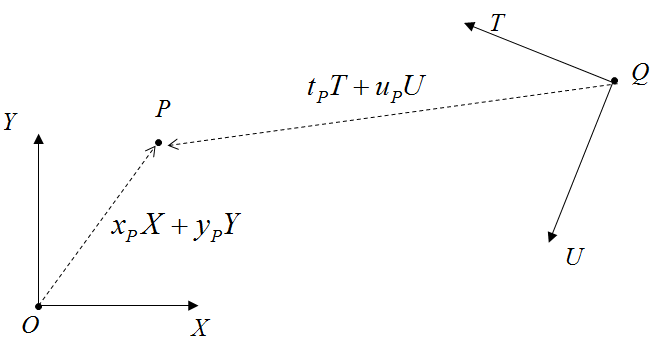
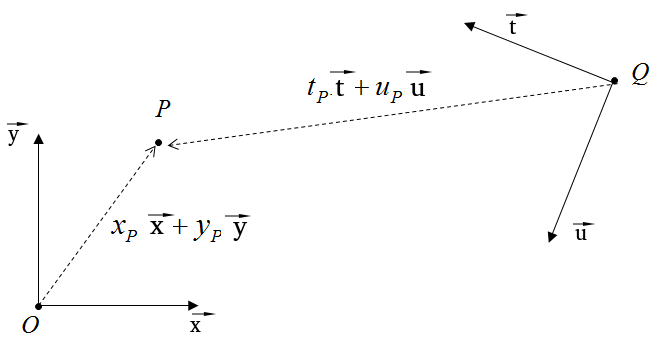
Uses the proposed math notation on baseorientation class

diff --git a/classes/baseorientation/README.md b/classes/baseorientation/README.md
@@ -34,7 +34,8 @@
 ---
 ## Computando a orientação
 
-- A orientação de <span class="math">n+1</span> pontos em um espaço n-dimensional é dado pelo **sinal
+- A orientação de <span class="math">n+1</span> pontos em um espaço
+  <span class="math">n</span>-dimensional é dado pelo **sinal
   do determinante da matriz** cujas colunas são as coordenadas homogêneas
   dos pontos **com o 1 vindo primeiro**
 
@@ -44,8 +45,6 @@
   <span class="math">
     Or_3(P_1,P_2,P_3,P_4)=sign\left(\begin{vmatrix}1&1&1&1\\\x_1&x_2&x_3&x_4\\\y_1&y_2&y_3&y_4\\\z_1&z_2&z_3&z_4\end{vmatrix}\right)
   </span>
-- O OpenGL faz isto internamente para descobrir
-  qual a orientação dos polígonos
 
 ---
 # Produto Vetorial
@@ -64,12 +63,12 @@
 ## Produto Vetorial (cont.)
 
 - Propriedades (assume-se <span class="math">\vec{u}</span>, <span class="math">\vec{v}</span> linearmente independentes):
-  - Antisimetria: <span class="math">\vec{u} \times \vec{v} = -\vec{v} \times \vec{u}</span>
+  - Antissimetria: <span class="math">\vec{u} \times \vec{v} = -\vec{v} \times \vec{u}</span>
   - Bilinearidade:
     - <span class="math">\vec{u} \times (\alpha \vec{v}) = \alpha (\vec{u} \times \vec{v})</span>  e
     - <span class="math">\vec{u} \times (\vec{v} + \vec{w}) = (\vec{u} \times \vec{v}) + (\vec{u} \times \vec{w})</span>
   - <span class="math">\vec{u} \times \vec{v}</span> é perpendicular tanto a <span class="math">\vec{u}</span> quanto a <span class="math">\vec{v}</span>
-  - O comprimento de <span class="math">\vec{u} \times \vec{v}</span> é igual a área do paralelogramo definido por  <span class="math">\vec{u}</span> e <span class="math">\vec{v}</span>, isto é, <span class="math">\lVert \vec{u} \times \vec{v} \rVert = \lVert \vec{u} \rVert \lVert \vec{v} \rVert \sin \theta</span>
+  - O comprimento de <span class="math">\vec{u} \times \vec{v}</span> é igual à área do paralelogramo definido por  <span class="math">\vec{u}</span> e <span class="math">\vec{v}</span>, isto é, <span class="math">\lVert \vec{u} \times \vec{v} \rVert = \lVert \vec{u} \rVert \lVert \vec{v} \rVert \sin \theta</span>
 
 ---
 # Mudança de Sistema de Coordenadas
@@ -78,20 +77,20 @@
 ## Sistema de Coordenadas (**revisão**)
 
 - Um sistema de coordenadas para <span class="math">R^n</span> é definido por um ponto (origem) e <span class="math">n</span> vetores
-- Por exmplo: Seja um sistema de coordenadas para <span class="math">R^2</span> definido pelo ponto <span class="math">O</span> e
-  os vetores <span class="math">X</span> e <span class="math">Y</span>. Então,
-  - Um ponto <span class="math">P</span> é dado por coordenadas <span class="math">x_P</span> e <span class="math">y_P</span> tais que
+- Por exemplo: Seja um sistema de coordenadas para <span class="math">R^2</span> definido pelo ponto <span class="math">O</span> e
+  os vetores <span class="math">\vec{x}</span> e <span class="math">\vec{y}</span>. Então,
+  - Um <u>ponto</u> <span class="math">P</span> é dado por coordenadas <span class="math">(x_P, y_P)</span> tais que
 
-    <div class="math">P = x_P . X + y_P . Y + O</div>
-  - Um vetor <span class="math">V</span> é dado por coordenadas <span class="math">x_V</span> e <span class="math">y_V</span> tais que
+    <div class="math">P = x_P . \vec{x} + y_P . \vec{y} + O</div>
+  - Um <u>vetor</u> <span class="math">\vec{v}</span> é dado por coordenadas <span class="math">(x_v, y_v)</span> tais que
 
-    <div class="math">V = x_V . X + y_V . Y</div>
+    <div class="math">\vec{v} = x_v . \vec{x} + y_v . \vec{y}</div>
 
 ---
 ## Mudança de Sistema
 
 - Se estabelecemos um outro sistema (ex.: <span class="math">Q</span>/
-  <span class="math">T</span>/<span class="math">U</span>), como computar
+  <span class="math">\vec{t}</span>/<span class="math">\vec{u}</span>), como computar
   as coordenadas nesse novo sistema?
 
   ![](../../images/coord-grafico.png)
@@ -99,12 +98,11 @@
 ---
 ## Mudança de Sistema (cont.)
 
-- Como computar as coordenadas de um ponto <span class="math">P = (x_P, y_P)</span> em <span class="math">O</span>/<span class="math">X</span>/<span class="math">Y</span> dadas as
-  coordenadas de <span class="math">P</span> em <span class="math">Q</span>/<span class="math">T</span>/<span class="math">U</span>, isto é, <span class="math">(t_P, u_P)</span>?
+- Problema: dadas as coordenadas do ponto <span class="math">P</span> no sistema <span class="math">Q</span>/<span class="math">\vec{t}</span>/<span class="math">\vec{u}</span> <span class="math">(t_P, u_P)</span>, como encontrar as coordenadas de <span class="math">P</span> no sistema <span class="math">O</span>/<span class="math">\vec{x}</span>/<span class="math">\vec{y}</span> <span class="math">(x_P, y_P)</span>?
 
-  1. Defina <span class="math">P</span> como um ponto no sistema <span class="math">Q</span>/<span class="math">T</span>/<span class="math">U</span>
-  1. Defina as componentes do sistema <span class="math">Q</span>/<span class="math">T</span>/<span class="math">U</span> no sistema <span class="math">O</span>/<span class="math">X</span>/<span class="math">Y</span>
-  1. Fatore a fórmula de forma a isolar as componentes de <span class="math">O</span>/<span class="math">X</span>/<span class="math">Y</span>
+  1. Defina <span class="math">P</span> como um ponto no sistema <span class="math">Q</span>/<span class="math">\vec{t}</span>/<span class="math">\vec{u}</span>
+  1. Defina as componentes do sistema <span class="math">Q</span>/<span class="math">\vec{t}</span>/<span class="math">\vec{u}</span> no sistema <span class="math">O</span>/<span class="math">\vec{x}</span>/<span class="math">\vec{y}</span>
+  1. Fatore a fórmula para isolar as componentes de <span class="math">O</span>/<span class="math">\vec{x}</span>/<span class="math">\vec{y}</span>
   1. Você achou <span class="math">P = (x_P, y_P)</span> :)
 
 ---
@@ -148,20 +146,20 @@
 
 <ul class="steps-base-change">
   <li>
-    <span class="math bullet">P[Q]=t_P T + u_P U + Q</span>
+    <span class="math bullet">P[Q]=t_P \vec{t} + u_P \vec{u} + Q</span>
   </li>
   <li>
-    <span class="math bullet">\color{red}{Q[O]}=x_Q X + y_Q Y + O</span><br>
-    <span class="math bullet">\color{blue}{T[O]}=x_T X + y_T Y</span><br>
-    <span class="math bullet">\color{green}{U[O]}=x_U X + y_U Y</span>
+    <span class="math bullet">\color{red}{Q[O]}=x_Q \vec{x} + y_Q \vec{y} + O</span><br>
+    <span class="math bullet">\color{blue}{\vec{t}[O]}=x_t \vec{x} + y_t \vec{y}</span><br>
+    <span class="math bullet">\color{green}{\vec{u}[O]}=x_u \vec{x} + y_u \vec{y}</span>
   </li>
   <li>
-    <span class="math bullet">=t_P \color{blue}{\left(x_T X + y_T Y\right)} + u_P \color{green}{\left(x_U X + y_U Y\right)} + \color{red}{\left(x_Q X + y_Q Y + O\right)}</span>
-    <span class="math bullet">=X \left(t_P x_T + u_P x_U + x_Q\right) + Y \left(t_P y_T + u_P y_U + y_Q\right) + O</span>
+    <span class="math bullet">P[Q]=t_P \color{blue}{\left(x_t \vec{x} + y_t \vec{y}\right)} + u_P \color{green}{\left(x_u \vec{x} + y_u \vec{y}\right)} + \color{red}{\left(x_Q \vec{x} + y_Q \vec{y} + O\right)}</span>
+    <span class="math bullet">P[Q]=\vec{x} \left(t_P x_t + u_P x_u + x_Q\right) + \vec{y} \left(t_P y_t + u_P y_u + y_Q\right) + O</span>
   </li>
   <li>
-    <div class="math bullet">x_P=t_P x_T + u_P x_U + x_Q</div>
-    <div class="math bullet">y_P=t_P y_T + u_P y_U + y_Q</div>
+    <div class="math bullet">x_P=t_P x_t + u_P x_u + x_Q</div>
+    <div class="math bullet">y_P=t_P y_t + u_P y_u + y_Q</div>
   </li>
 </ul>
 
@@ -180,37 +178,37 @@
 
   <div class="math">
     \begin{bmatrix}x_P\\\y_P\\\1\end{bmatrix}=
-    \begin{bmatrix}x_T&x_U&x_Q\\\y_T&y_U&y_Q\\\0&0&1\end{bmatrix}\times
+    \begin{bmatrix}x_t&x_u&x_Q\\\y_t&y_u&y_Q\\\0&0&1\end{bmatrix}\times
     \begin{bmatrix}t_P\\\u_P\\\1\end{bmatrix}
   </div>
-- Ou seja, dadas as coordenadas de um ponto ou vetor em um sistema Q/T/U,
-  podemos **achar suas coordenadas em um sistema O/X/Y <u>multiplicando as
+- Ou seja, dadas as coordenadas de um ponto ou vetor em um sistema <span class="math">Q/\vec{t}/\vec{u}</span>,
+  podemos **achar suas coordenadas em um sistema <span class="math">O/\vec{x}/\vec{y}</span> <u>multiplicando as
   coordenadas por uma matriz</u>**
 
 ---
 ## Mudança de Sistema (cont.)
 
-- Se quiser passar uma coordenada do sistema O/X/Y para Q/T/U, basta
+- Se quiser passar uma coordenada do sistema <span class="math">O/\vec{x}/\vec{y}</span> para <span class="math">Q/\vec{t}/\vec{u}</span>, basta
   **resolver o problema inverso**:
 
   <div class="math">
-    \begin{bmatrix}x_P\\\y_P\\\1\end{bmatrix}=
-    \begin{bmatrix}x_T&x_U&x_Q\\\y_T&y_U&y_Q\\\0&0&1\end{bmatrix}^{-1}\times
-    \begin{bmatrix}t_P\\\u_P\\\1\end{bmatrix}
+    \begin{bmatrix}t_P\\\u_P\\\1\end{bmatrix}=
+    \begin{bmatrix}x_t&x_U&x_Q\\\y_t&y_u&y_Q\\\0&0&1\end{bmatrix}^{-1}\times
+    \begin{bmatrix}x_P\\\y_P\\\1\end{bmatrix}
   </div>
 
 ---
 ## Exemplo Concreto
 
+- Calcule as coordenadas de <span class="math">P</span> no sistema
+  <span class="math">O/\vec{x}/\vec{y}</span>.
 - Considere que:
   - <span class="math">P[Q] = (2.5, 1)</span>
-  - Sistema <span class="math">Q/T/U</span> dado em
-    <span class="math">O/X/Y</span>:
+  - Sistema <span class="math">Q/\vec{t}/\vec{u}</span> dado em
+    <span class="math">O/\vec{x}/\vec{y}</span>:
     - <span class="math">Q[O]= (3.5, 1.25)</span>
-    - <span class="math">T[O]= (-1, 0.25)</span>
-    - <span class="math">U[O]= (-0.25, -1)</span>
-- Calcule as coordenadas de <span class="math">P</span> no sistema
-  <span class="math">O/X/Y</span>.
+    - <span class="math">\vec{t}[O]= (-1, 0.25)</span>
+    - <span class="math">\vec{u}[O]= (-0.25, -1)</span>
 
 ---
 ## Resolvendo o Exercício
@@ -222,7 +220,7 @@
     \begin{bmatrix}t_P\\\u_P\\\1\end{bmatrix}
   </div>
 - Materializando para o <span class="math">P</span>
-  <div class="math">\begin{bmatrix}x_P\\\y_P\\\1\end{bmatrix}=\begin{bmatrix}-1&-0.25&3.5\\\0.25&-1&1.25\\\0&0&1\end{bmatrix} \cdot \begin{bmatrix}2.5\\\1\\\1\end{bmatrix}</div>
+  <div class="math">\begin{bmatrix}x_P\\\y_P\\\1\end{bmatrix}=\begin{bmatrix}-1&-0.25&3.5\\\0.25&-1&1.25\\\0&0&1\end{bmatrix} \times \begin{bmatrix}2.5\\\1\\\1\end{bmatrix}</div>
 - Resultado: <span class="math">P[O] = (0.75, 0.875)</span>
 
 ---

diff --git a/README.md b/README.md
@@ -27,12 +27,12 @@
 - [Orientação e Mudança de Coordenadas](classes/baseorientation) (08/09/2016)
 - [O Pipeline Gráfico](classes/pipeline) (13/09/2016)
 - [Projeção](classes/projection) (15/09/2016)
+- [Modelagem Hierárquica](classes/hierarchical) (20/09/2016)
+- [Iluminação e Sombreamento](classes/lighting) (22 e 27/09/2016)
+- [Modelagem de Objetos](classes/modeling) (02/10/2016)
 
 <!--
 
-- [Modelagem Hierárquica](classes/hierarchical) (12/04/2016)
-- [Iluminação e Sombreamento](classes/lighting) (14 e 19/04/2016)
-- [Modelagem de Objetos](classes/modeling) (26/04/2016)
 
 
 # Aulas (página 3)
